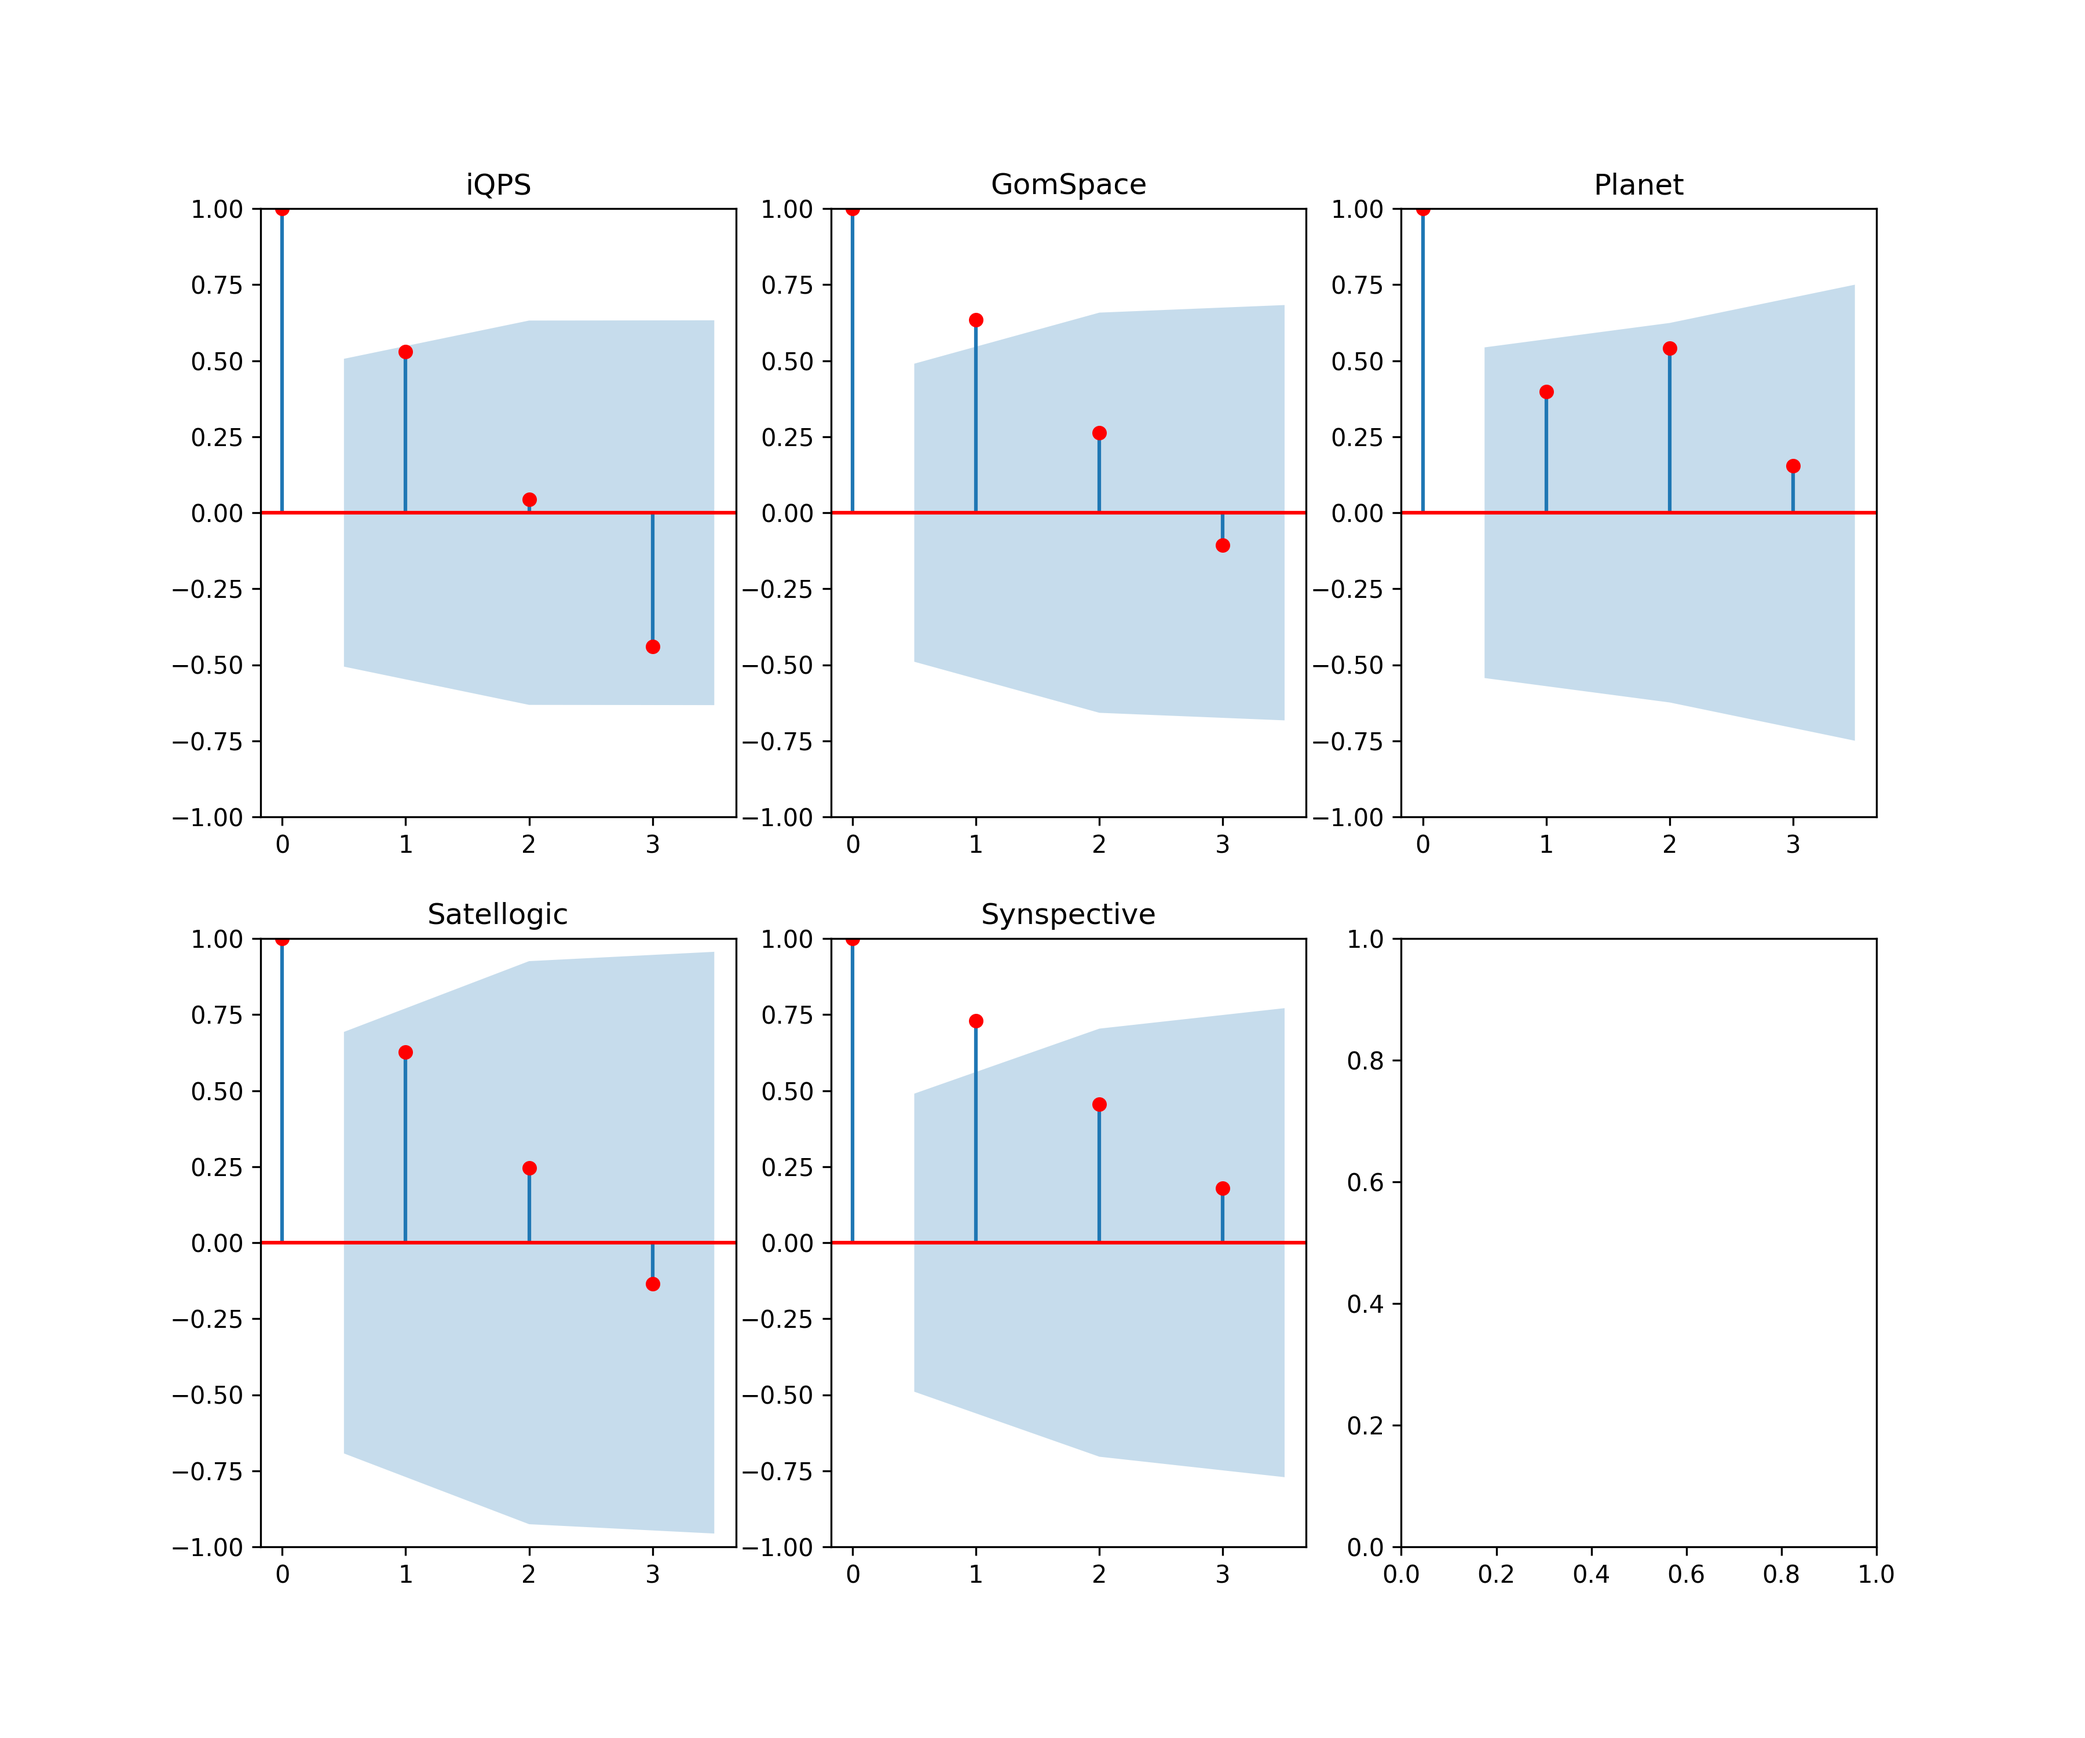
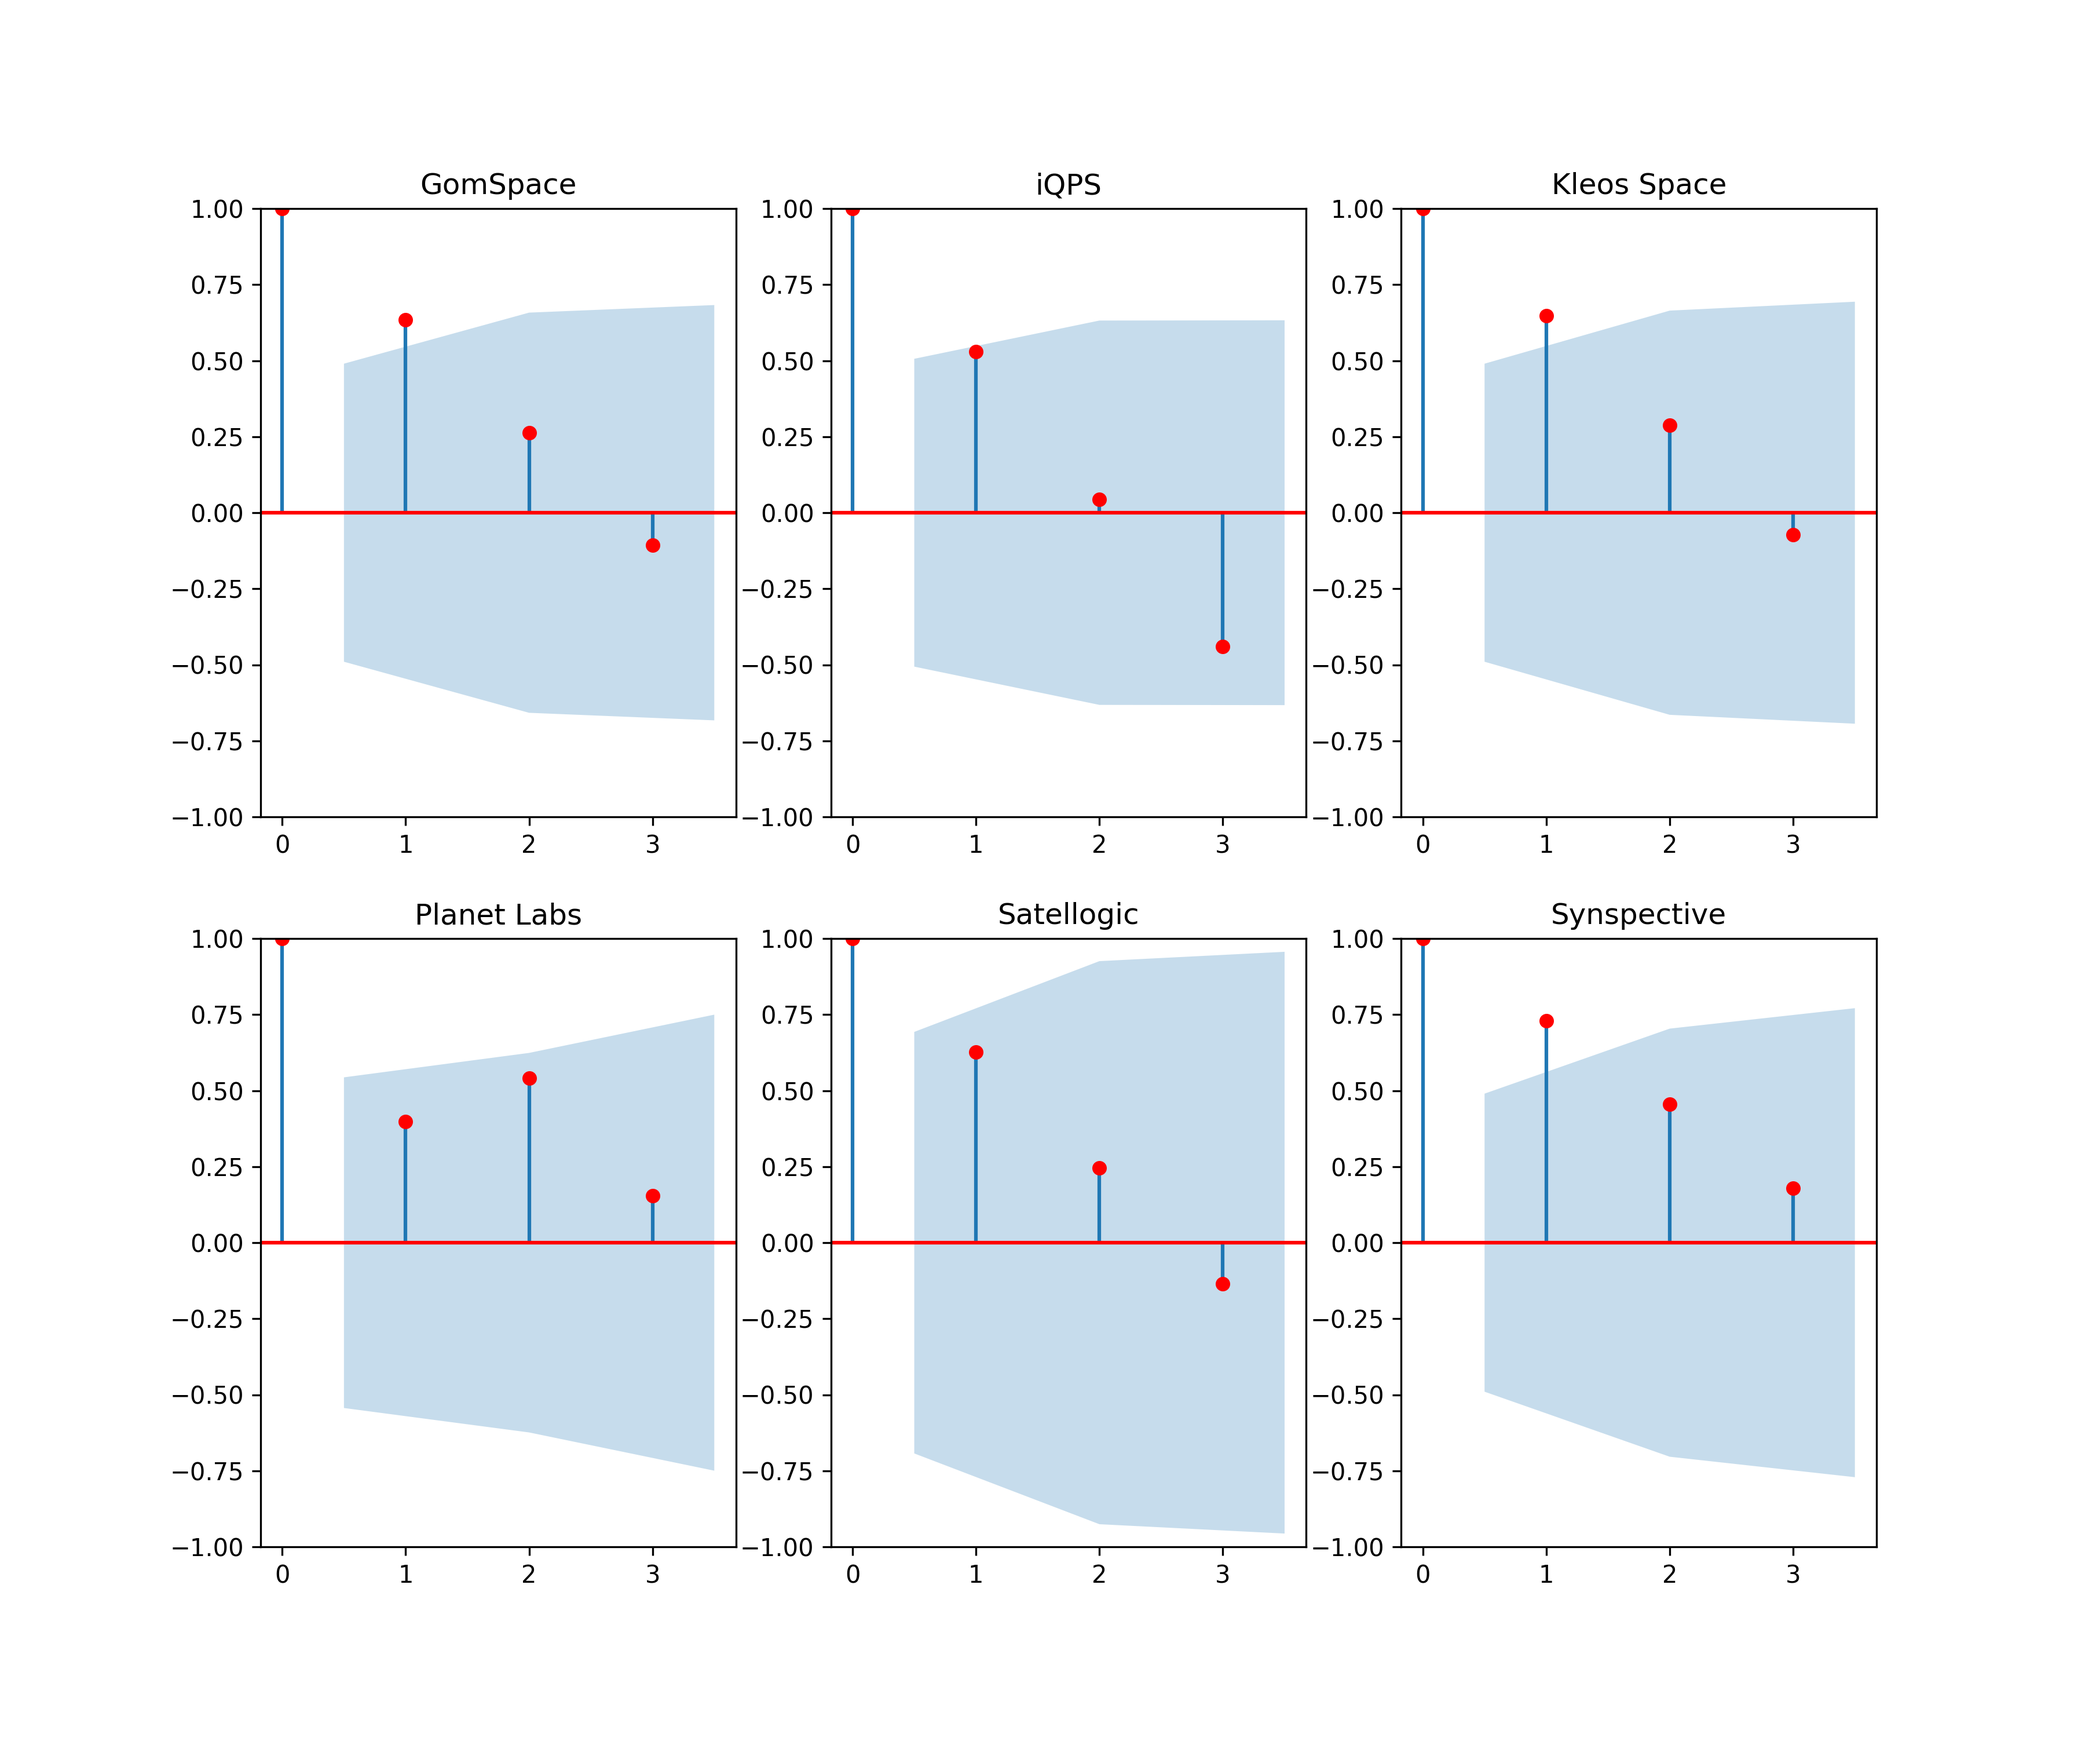
[ADD] add kleos space to all plots

diff --git a/src/process.py b/src/process.py
@@ -49,7 +49,7 @@ def transform_financial_metrics(company, filtered_data):
         "diffLogLiabilities": diffLogLiabilities,
         "diffLogEquity": diffLogEquity
     }
-    if company == "Synspective":
+    if company == "Synspective" or company == "Kleos Space":
             print("Not enough revenue data")
     else:
         revenue = filtered_data["Revenue"].values.astype(int)
@@ -132,7 +132,7 @@ for i, company in enumerate(company_metadata):
     fig4 = plot_growth_rate(fig4, ax4, transformed_data, "growthLiabilities", company_metadata, company, 'Total Liabilities Growth Rate (%)')
     fig5 = plot_growth_rate(fig5, ax5, transformed_data, "growthEquity", company_metadata, company, 'Total Equity Growth Rate (%)')
 
-    if company == "Synspective":
+    if company == "Synspective" or company == "Kleos Space":
         continue
     else:
         fig6 = plot_kpis(fig6, ax6, transformed_data, "financialLeverage", company_metadata, company, 'Financial Leverage')

diff --git a/src/plot_utils.py b/src/plot_utils.py
@@ -7,7 +7,7 @@ def plot_growth_rate(fig, ax, data, key, company_metadata, company, ylabel):
     ax.set_ylabel(ylabel, fontsize=16)
     company_color = np.array(company_metadata[company]["color"]) / 255
     ax.plot(data["Quarter"].values[1:], data[key], color=company_color, linestyle=company_metadata[company]["style"], label=company, linewidth=10)
-    ax.legend(ncol=4, bbox_to_anchor=(0.98, -0.15), fancybox=True, title="Company", fontsize='16', frameon=True)
+    ax.legend(ncol=3, bbox_to_anchor=(0.9, -0.15), fancybox=True, title="Company", fontsize='16', frameon=True)
     fig.tight_layout()
     box = ax.get_position()
     ax.set_position([box.x0, box.y0 + box.height * 0.2, box.width, box.height * 0.8])
